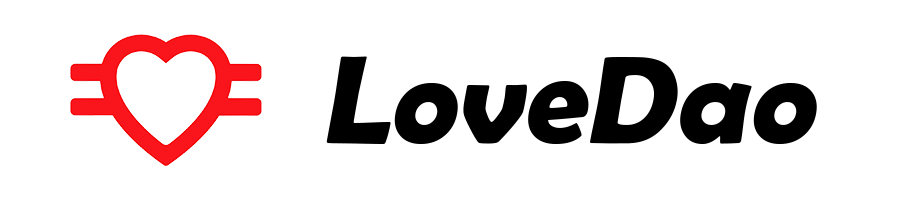
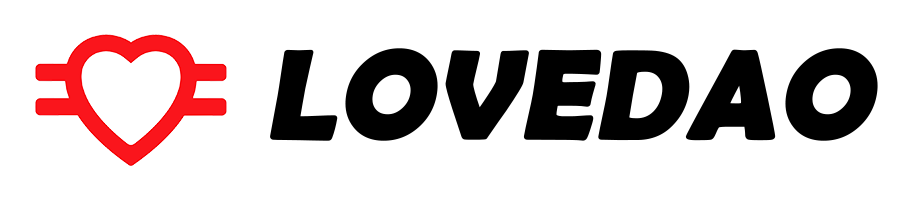
change lovedao watermark

Changed region(s): [[0.0311, 0.15, 0.9956, 0.84]]

diff --git a/app/javascript/mastodon/utils/web3.js b/app/javascript/mastodon/utils/web3.js
@@ -201,7 +201,7 @@ export const getServerName = () => {
     case 'facedao':
       return 'FaceDAO';
     case 'lovedao':
-      return 'LoveDAO';
+      return 'LOVEDAO';
     case 'pqcdao':
       return 'PQCdao';
     default:
